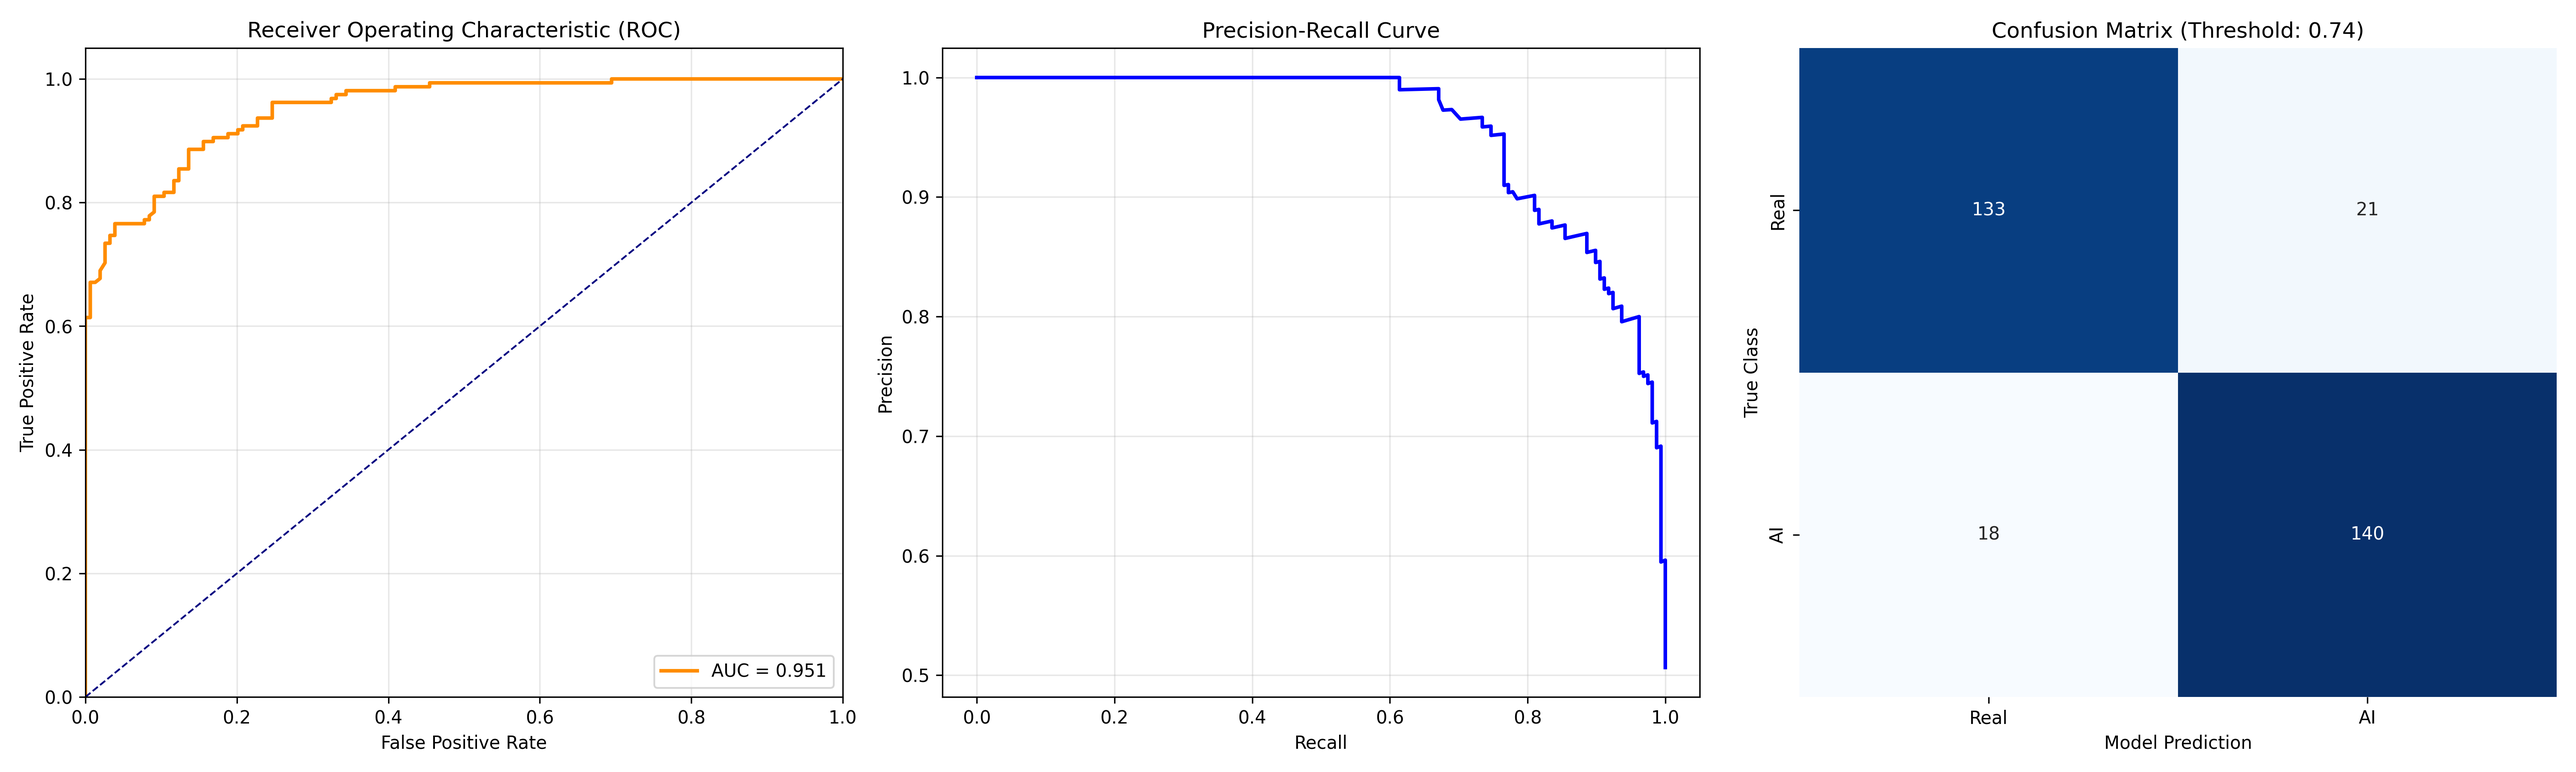
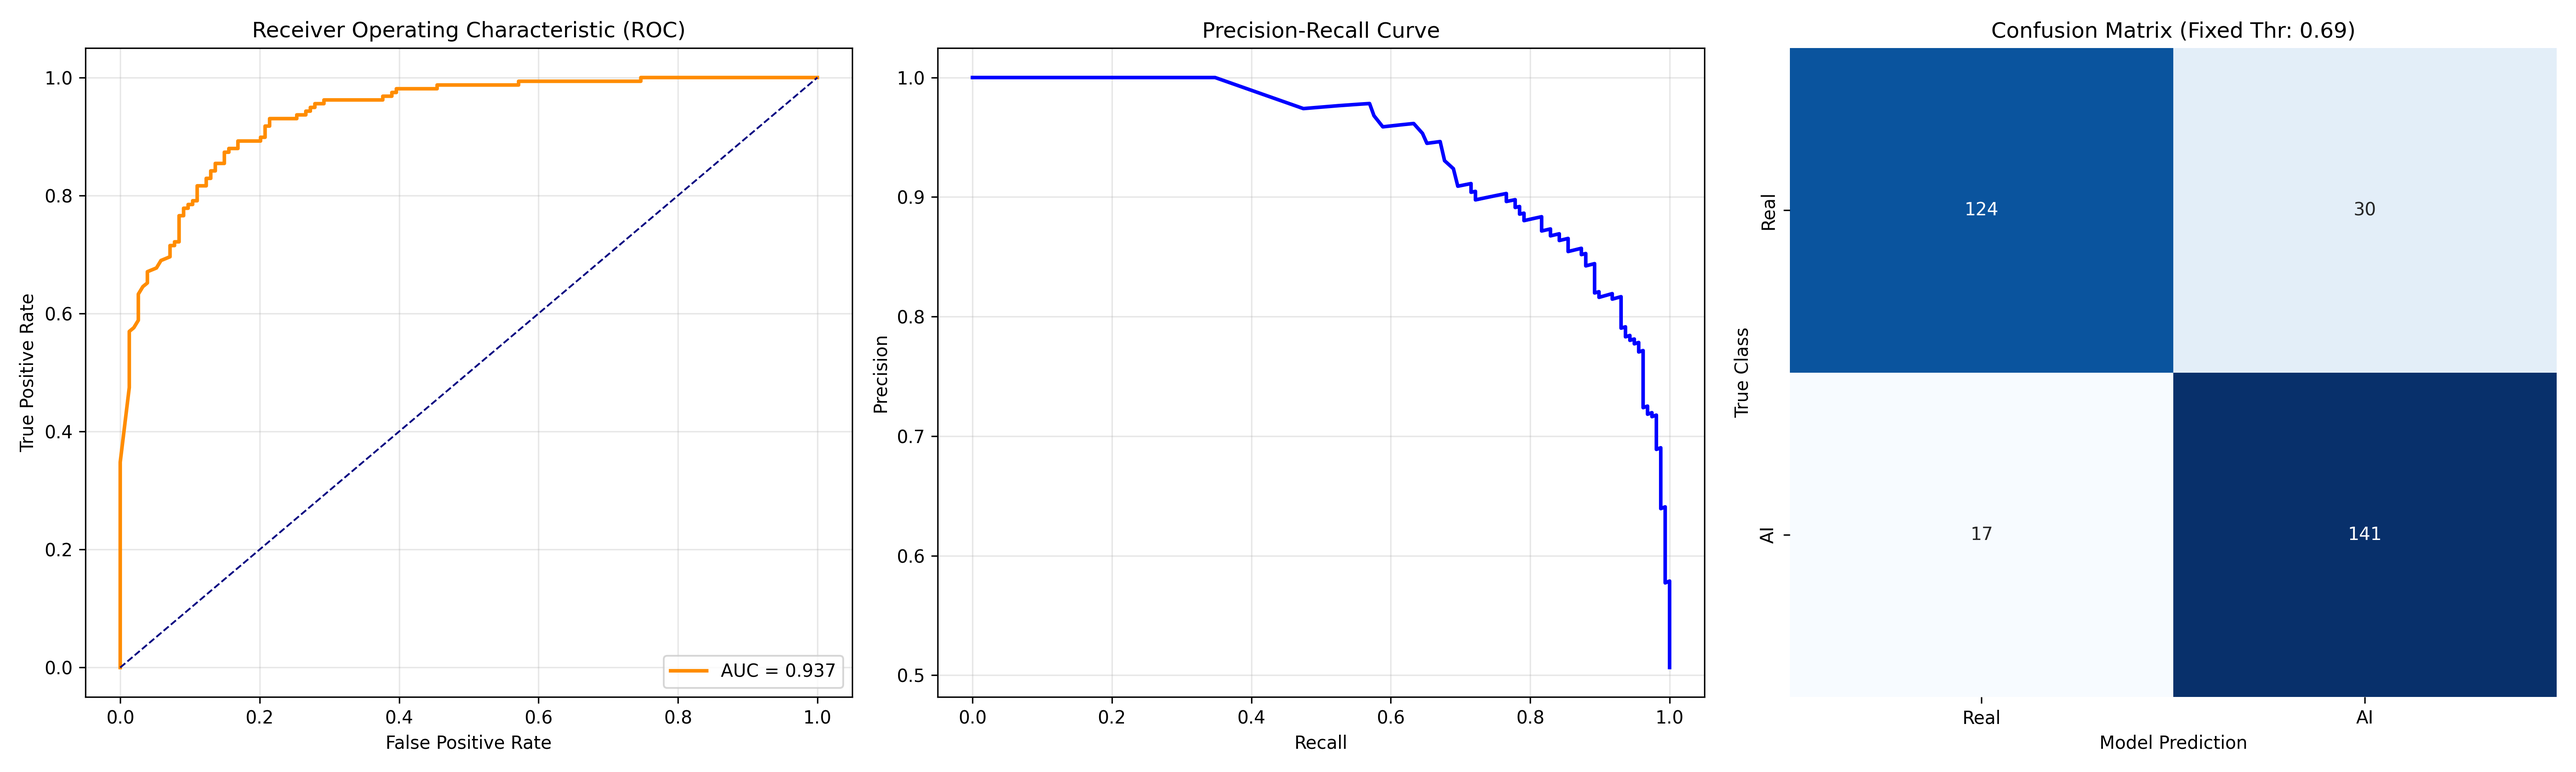
Enhance model evaluation with error visualization, optimized thresholding, and improved training script

diff --git a/evaluate.py b/evaluate.py
@@ -1,4 +1,6 @@
 import torch
+import cv2
+import os
 import torch.nn.functional as F
 import numpy as np
 import matplotlib.pyplot as plt
@@ -11,19 +13,129 @@ from sklearn.metrics import (
     roc_curve
 )
 
-def evaluate_model(model, loader, device):
+def visualize_errors(model, loader, device, threshold=0.5, max_images=10):
+    model.eval()
+    all_errors = [] 
+    
+    mean = np.array([0.485, 0.456, 0.406])
+    std = np.array([0.229, 0.224, 0.225])
 
+    print("\n[Analiză] Căutăm cele mai mari greșeli ale modelului...")
+
+    with torch.no_grad():
+        for images, labels, paths in loader:
+            images_gpu = images.to(device)
+            with torch.autocast(device_type='cuda', dtype=torch.float16):
+                outputs = model(images_gpu)
+            
+            probs = F.softmax(outputs, dim=1)[:, 1]
+            probs_cpu = probs.cpu().numpy()
+            labels_cpu = labels.numpy()
+            preds = (probs_cpu >= threshold).astype(int)
+
+            mis_idx = np.where(preds != labels_cpu)[0]
+
+            for idx in mis_idx:
+                
+                error_score = abs(labels_cpu[idx] - probs_cpu[idx])
+                
+                
+                ai_crop = images[idx].permute(1, 2, 0).numpy()
+                ai_crop = (std * ai_crop + mean).clip(0, 1)
+
+                all_errors.append({
+                    'score': error_score,
+                    'path': paths[idx],
+                    'ai_input': ai_crop,
+                    'true': labels_cpu[idx],
+                    'pred': preds[idx],
+                    'prob': probs_cpu[idx]
+                })
+
+    if not all_errors:
+        print("Nu s-au găsit erori.")
+        return
+
+    
+    all_errors.sort(key=lambda x: x['score'], reverse=True)
+    top_errors = all_errors[:max_images]
+
+    
+    num_to_show = len(top_errors)
+    fig, axes = plt.subplots(num_to_show, 2, figsize=(14, 4 * num_to_show))
+    if num_to_show == 1: axes = np.expand_dims(axes, axis=0)
+
+    for i, err in enumerate(top_errors):
+        
+        full_img = cv2.cvtColor(cv2.imread(err['path']), cv2.COLOR_BGR2RGB)
+        axes[i, 0].imshow(full_img)
+        axes[i, 0].set_title(f"Confuzie maximă - Original: {os.path.basename(err['path'])}")
+        axes[i, 0].axis('off')
+
+        
+        axes[i, 1].imshow(err['ai_input'])
+        t_cls = 'AI' if err['true'] == 1 else 'Real'
+        p_cls = 'AI' if err['pred'] == 1 else 'Real'
+        axes[i, 1].set_title(f"T:{t_cls} | P:{p_cls} | Siguranță eronată: {err['score']*100:.1f}%", 
+                             color='red', weight='bold', fontsize=12)
+        axes[i, 1].axis('off')
+
+    plt.tight_layout(pad=3.0)
+    plt.savefig('worst_10_errors.png', dpi=150)
+    plt.show()
+    print(f"\n[Succes] Top {num_to_show} cele mai sigure greșeli salvate în 'worst_10_errors.png'.")
+    
+    
+    
+def get_optimal_threshold(model, loader, device):
+    """
+    Calculates the best threshold on a specific loader (e.g., Validation Set)
+    to maximize the F1 Score.
+    """
+    model.eval()
+    all_probs, all_labels = [], []
+    
+    print("Finding optimal threshold on the provided loader...")
+    
+    with torch.no_grad():
+        for images, labels, _ in loader:
+            images, labels = images.to(device), labels.to(device)
+            with torch.autocast(device_type='cuda', dtype=torch.float16):
+                outputs = model(images)
+            
+            probs = F.softmax(outputs, dim=1)[:, 1]
+            all_probs.extend(probs.cpu().numpy())
+            all_labels.extend(labels.cpu().numpy())
+    
+    all_probs = np.array(all_probs)
+    all_labels = np.array(all_labels)
+    
+    precisions, recalls, thresholds = precision_recall_curve(all_labels, all_probs)
+    f1_scores = 2 * (precisions * recalls) / (precisions + recalls + 1e-8)
+    
+    best_idx = np.argmax(f1_scores)
+    
+    
+    best_threshold = thresholds[best_idx] if best_idx < len(thresholds) else thresholds[-1]
+    
+    print(f"Optimal threshold found: {best_threshold:.4f} with F1: {f1_scores[best_idx]:.4f}")
+    return best_threshold
+
+def evaluate_model(model, loader, device, threshold=0.5):
+    """
+    Evaluates the model on a loader (e.g., Test Set) using a PREDEFINED threshold.
+    Generates metrics and professional plots for the dissertation.
+    """
     model.eval()
     all_probs = []
     all_labels = []
 
-    print("\n" + "="*30)
-    print("STARTING EVALUATION...")
-    print("="*30)
-    print("Extracting predictions and probabilities from the model...")
+    print("\n" + "="*40)
+    print(f"STARTING FINAL EVALUATION (Threshold: {threshold:.4f})")
+    print("="*40)
 
     with torch.no_grad():
-        for images, labels in loader:
+        for images, labels, _ in loader:
             images = images.to(device)
             labels = labels.to(device)
 
@@ -31,38 +143,24 @@ def evaluate_model(model, loader, device):
                 outputs = model(images)
             
             probs = F.softmax(outputs, dim=1)[:, 1]
-
             all_probs.extend(probs.cpu().numpy())
             all_labels.extend(labels.cpu().numpy())
 
     all_probs = np.array(all_probs)
     all_labels = np.array(all_labels)
 
-
-    precisions, recalls, thresholds = precision_recall_curve(all_labels, all_probs)
     
+    optimized_preds = (all_probs >= threshold).astype(int)
 
-    f1_scores = 2 * (precisions * recalls) / (precisions + recalls + 1e-8)
     
-
-    best_idx = np.argmax(f1_scores)
-    best_threshold = thresholds[best_idx] if best_idx < len(thresholds) else thresholds[-1]
-    
-    print(f"\n[Optimization] Most optimal threshold: {best_threshold:.4f}")
-    print(f"[Optimization] Best F1 Score: {f1_scores[best_idx]:.4f}")
-
-    optimized_preds = (all_probs >= best_threshold).astype(int)
-
     roc_auc = roc_auc_score(all_labels, all_probs)
     print(f"ROC AUC Score: {roc_auc:.4f}")
     
-    print("\nClassification Report (using the optimal threshold):")
-    report = classification_report(all_labels, optimized_preds, target_names=['Real', 'AI'])
-    print(report)
+    print(f"\nClassification Report (Fixed Threshold: {threshold:.4f}):")
+    print(classification_report(all_labels, optimized_preds, target_names=['Real', 'AI']))
 
-
-    print("Generating performance plots...")
     
+    print("Generating performance plots...")
     plt.figure(figsize=(20, 6))
     
     
@@ -70,8 +168,6 @@ def evaluate_model(model, loader, device):
     plt.subplot(1, 3, 1)
     plt.plot(fpr, tpr, color='darkorange', lw=2, label=f'AUC = {roc_auc:.3f}')
     plt.plot([0, 1], [0, 1], color='navy', lw=1, linestyle='--')
-    plt.xlim([0.0, 1.0])
-    plt.ylim([0.0, 1.05])
     plt.xlabel('False Positive Rate')
     plt.ylabel('True Positive Rate')
     plt.title('Receiver Operating Characteristic (ROC)')
@@ -79,8 +175,9 @@ def evaluate_model(model, loader, device):
     plt.grid(alpha=0.3)
 
     
+    precisions, recalls, _ = precision_recall_curve(all_labels, all_probs)
     plt.subplot(1, 3, 2)
-    plt.plot(recalls, precisions, color='blue', lw=2, label='PR Curve')
+    plt.plot(recalls, precisions, color='blue', lw=2)
     plt.xlabel('Recall')
     plt.ylabel('Precision')
     plt.title('Precision-Recall Curve')
@@ -91,13 +188,12 @@ def evaluate_model(model, loader, device):
     cm = confusion_matrix(all_labels, optimized_preds)
     sns.heatmap(cm, annot=True, fmt='d', cmap='Blues', cbar=False,
                 xticklabels=['Real', 'AI'], yticklabels=['Real', 'AI'])
-    plt.title(f'Confusion Matrix (Threshold: {best_threshold:.2f})')
+    plt.title(f'Confusion Matrix (Fixed Thr: {threshold:.2f})')
     plt.xlabel('Model Prediction')
     plt.ylabel('True Class')
 
     plt.tight_layout()
-    plt.savefig('model_performance.png', dpi=300) 
+    plt.savefig('model_performance.png', dpi=300)
     plt.show()
 
-    print("\n[Succes] Evaluation completed! Performance plots saved as 'model_performance.png'.")
-    print("="*30 + "\n")
+    print("\n[Success] Evaluation completed. Plots saved as 'model_performance.png'.")

diff --git a/train.py b/train.py
@@ -6,8 +6,13 @@ from model import build_model
 
 
 from dataset import AIDetectionDataset, train_transform, val_transform
-from evaluate import evaluate_model
+from evaluate import evaluate_model, get_optimal_threshold, visualize_errors
 import matplotlib.pyplot as plt
+import cv2
+import numpy as np
+
+cv2.setNumThreads(0)  
+torch.backends.cudnn.benchmark = True
 
 def get_real_data(dataset_path, weights=(0.70, 0.15, 0.15)):
     train_w, val_w, test_w = weights
@@ -88,12 +93,22 @@ def save_learning_curves(history):
 def main():
     
     model, criterion, optimizer, device = build_model()
+
     print(f"Training on: {device}")
-    DATASET_DIR = "E:\\disertatie\\dataset"
+    DATASET_DIR = "D:\\dataset"
 
     train_image_paths, train_labels, val_image_paths, val_labels, test_image_paths, test_labels = get_real_data(DATASET_DIR)
 
-
+    class_counts = np.bincount(train_labels)
+    total_samples = len(train_labels)
+    
+    weights = total_samples / (2.0 * class_counts)
+    class_weights = torch.tensor(weights, dtype=torch.float).to(device)
+    
+    print(f"Calculated class weights: Real={weights[0]:.4f}, AI={weights[1]:.4f}")
+    
+    criterion = torch.nn.CrossEntropyLoss(weight=class_weights)
+    
     train_dataset = AIDetectionDataset(train_image_paths, train_labels, transform=train_transform)
     val_dataset = AIDetectionDataset(val_image_paths, val_labels, transform=val_transform)
     test_dataset = AIDetectionDataset(test_image_paths, test_labels, transform=val_transform)
@@ -104,16 +119,18 @@ def main():
         train_dataset, 
         batch_size=batch_size, 
         shuffle=True, 
-        num_workers=10,
+        num_workers=6,
         pin_memory=True,
-        prefetch_factor=3
+        persistent_workers=True,
+        prefetch_factor=4
     )
     
     val_loader = DataLoader(
         val_dataset, 
         batch_size=batch_size, 
         shuffle=False, 
-        num_workers=10,
+        num_workers=6,
+        persistent_workers=True,
         pin_memory=True
     )
     
@@ -121,7 +138,8 @@ def main():
         test_dataset, 
         batch_size=batch_size, 
         shuffle=False, 
-        num_workers=8,
+        num_workers=6,
+        persistent_workers=True,
         pin_memory=True
     )
 
@@ -145,9 +163,9 @@ def main():
         model.train()
         running_train_loss = 0.0
         
-        for images, labels in train_loader:
-            images = images.to(device)
-            labels = labels.to(device)
+        for images, labels, _ in train_loader:
+            images = images.to(device, non_blocking=True)
+            labels = labels.to(device, non_blocking=True)
 
             optimizer.zero_grad() 
             
@@ -170,10 +188,10 @@ def main():
         total_samples = 0
         
         with torch.no_grad():
-            for images, labels in val_loader:
-                images = images.to(device)
-                labels = labels.to(device)
-                
+            for images, labels, _ in val_loader:
+                images = images.to(device, non_blocking=True)
+                labels = labels.to(device, non_blocking=True)
+
                 with torch.autocast(device_type='cuda', dtype=torch.float16):
                     outputs = model(images)
                     loss = criterion(outputs, labels)
@@ -218,9 +236,10 @@ def main():
 
 
     model.load_state_dict(torch.load(save_path))
+    best_thr = get_optimal_threshold(model, val_loader, device)
     
-    
-    evaluate_model(model, test_loader, device)
+    evaluate_model(model, test_loader, device, threshold=best_thr)
+    visualize_errors(model, test_loader, device, threshold=best_thr, max_images=5)
 
 if __name__ == '__main__':
     main()

diff --git a/model.py b/model.py
@@ -14,6 +14,6 @@ def build_model():
 
     
     criterion = nn.CrossEntropyLoss()
-    optimizer = torch.optim.AdamW(model.parameters(), lr=1e-4, weight_decay=1e-2)
+    optimizer = torch.optim.AdamW(model.parameters(), lr=5e-5, weight_decay=1e-2)
     
     return model, criterion, optimizer, device

diff --git a/dataset.py b/dataset.py
@@ -42,4 +42,4 @@ class AIDetectionDataset(Dataset):
             augmented = self.transform(image=image)
             image = augmented['image']
 
-        return image, label
+        return image, label, img_path
